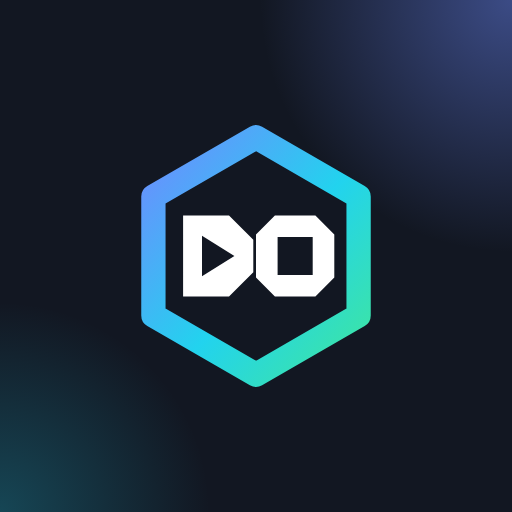
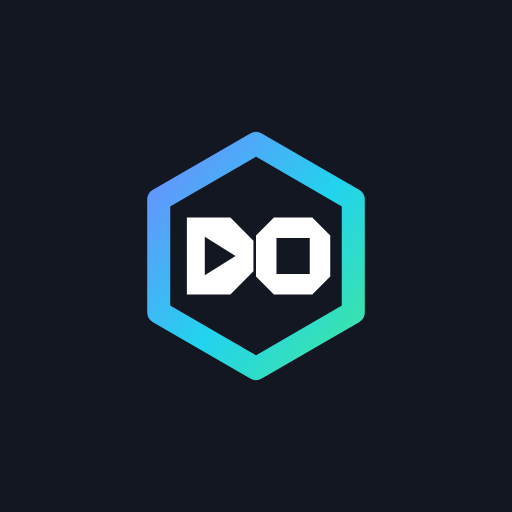
Iconos de la app con fondo liso del color de la app (sin brillos): la pantalla de bienvenida de Android queda de un solo tono
Claude-Session: https://claude.ai/code/session_01B44VbnWuYpjyJ8VHvCZvgG

diff --git a/cliente.html b/cliente.html
@@ -20,10 +20,10 @@
   <meta property="og:locale" content="es_ES">
   <meta name="twitter:card" content="summary_large_image">
   <link rel="icon" type="image/png" sizes="32x32" href="img/favicon-32.png?v=8">
-  <link rel="manifest" href="manifest-cliente.webmanifest?v=2">
+  <link rel="manifest" href="manifest-cliente.webmanifest?v=3">
   <meta name="apple-mobile-web-app-capable" content="yes">
   <meta name="apple-mobile-web-app-title" content="Mi entreno">
-  <link rel="apple-touch-icon" sizes="180x180" href="img/apple-touch-icon.png?v=8">
+  <link rel="apple-touch-icon" sizes="180x180" href="img/apple-touch-icon.png?v=10">
   <link rel="stylesheet" href="css/fonts.css?v=2026.11.20-221">
   <link rel="stylesheet" href="css/styles.css?v=2026.11.20-221">
 </head>

diff --git a/index.html b/index.html
@@ -7,7 +7,7 @@
   <meta name="description" content="Gestión de clientes de asesoría online: cuotas, progreso y pagos.">
   <meta name="theme-color" content="#121722">
   <meta http-equiv="Cache-Control" content="no-cache">
-  <link rel="manifest" href="manifest.webmanifest?v=10">
+  <link rel="manifest" href="manifest.webmanifest?v=11">
   <link rel="icon" type="image/png" sizes="32x32" href="img/favicon-32.png?v=9">
   <link rel="icon" type="image/png" sizes="192x192" href="img/icon-192.png?v=9">
   <link rel="apple-touch-icon" sizes="180x180" href="img/apple-touch-icon.png?v=9">

diff --git a/cuestionario.html b/cuestionario.html
@@ -20,7 +20,7 @@
   <meta property="og:locale" content="es_ES">
   <meta name="twitter:card" content="summary_large_image">
   <link rel="icon" type="image/png" sizes="32x32" href="img/favicon-32.png?v=8">
-  <link rel="apple-touch-icon" sizes="180x180" href="img/apple-touch-icon.png?v=8">
+  <link rel="apple-touch-icon" sizes="180x180" href="img/apple-touch-icon.png?v=10">
   <link rel="stylesheet" href="css/fonts.css?v=2026.11.20-221">
   <link rel="stylesheet" href="css/styles.css?v=2026.11.20-221">
 </head>

diff --git a/dieta.html b/dieta.html
@@ -20,7 +20,7 @@
   <meta property="og:locale" content="es_ES">
   <meta name="twitter:card" content="summary_large_image">
   <link rel="icon" type="image/png" sizes="32x32" href="img/favicon-32.png?v=8">
-  <link rel="apple-touch-icon" sizes="180x180" href="img/apple-touch-icon.png?v=8">
+  <link rel="apple-touch-icon" sizes="180x180" href="img/apple-touch-icon.png?v=10">
   <link rel="stylesheet" href="css/fonts.css?v=2026.11.20-221">
   <link rel="stylesheet" href="css/styles.css?v=2026.11.20-221">
 </head>

diff --git a/rutina.html b/rutina.html
@@ -20,7 +20,7 @@
   <meta property="og:locale" content="es_ES">
   <meta name="twitter:card" content="summary_large_image">
   <link rel="icon" type="image/png" sizes="32x32" href="img/favicon-32.png?v=8">
-  <link rel="apple-touch-icon" sizes="180x180" href="img/apple-touch-icon.png?v=8">
+  <link rel="apple-touch-icon" sizes="180x180" href="img/apple-touch-icon.png?v=10">
   <link rel="stylesheet" href="css/fonts.css?v=2026.11.20-221">
   <link rel="stylesheet" href="css/styles.css?v=2026.11.20-221">
 </head>
